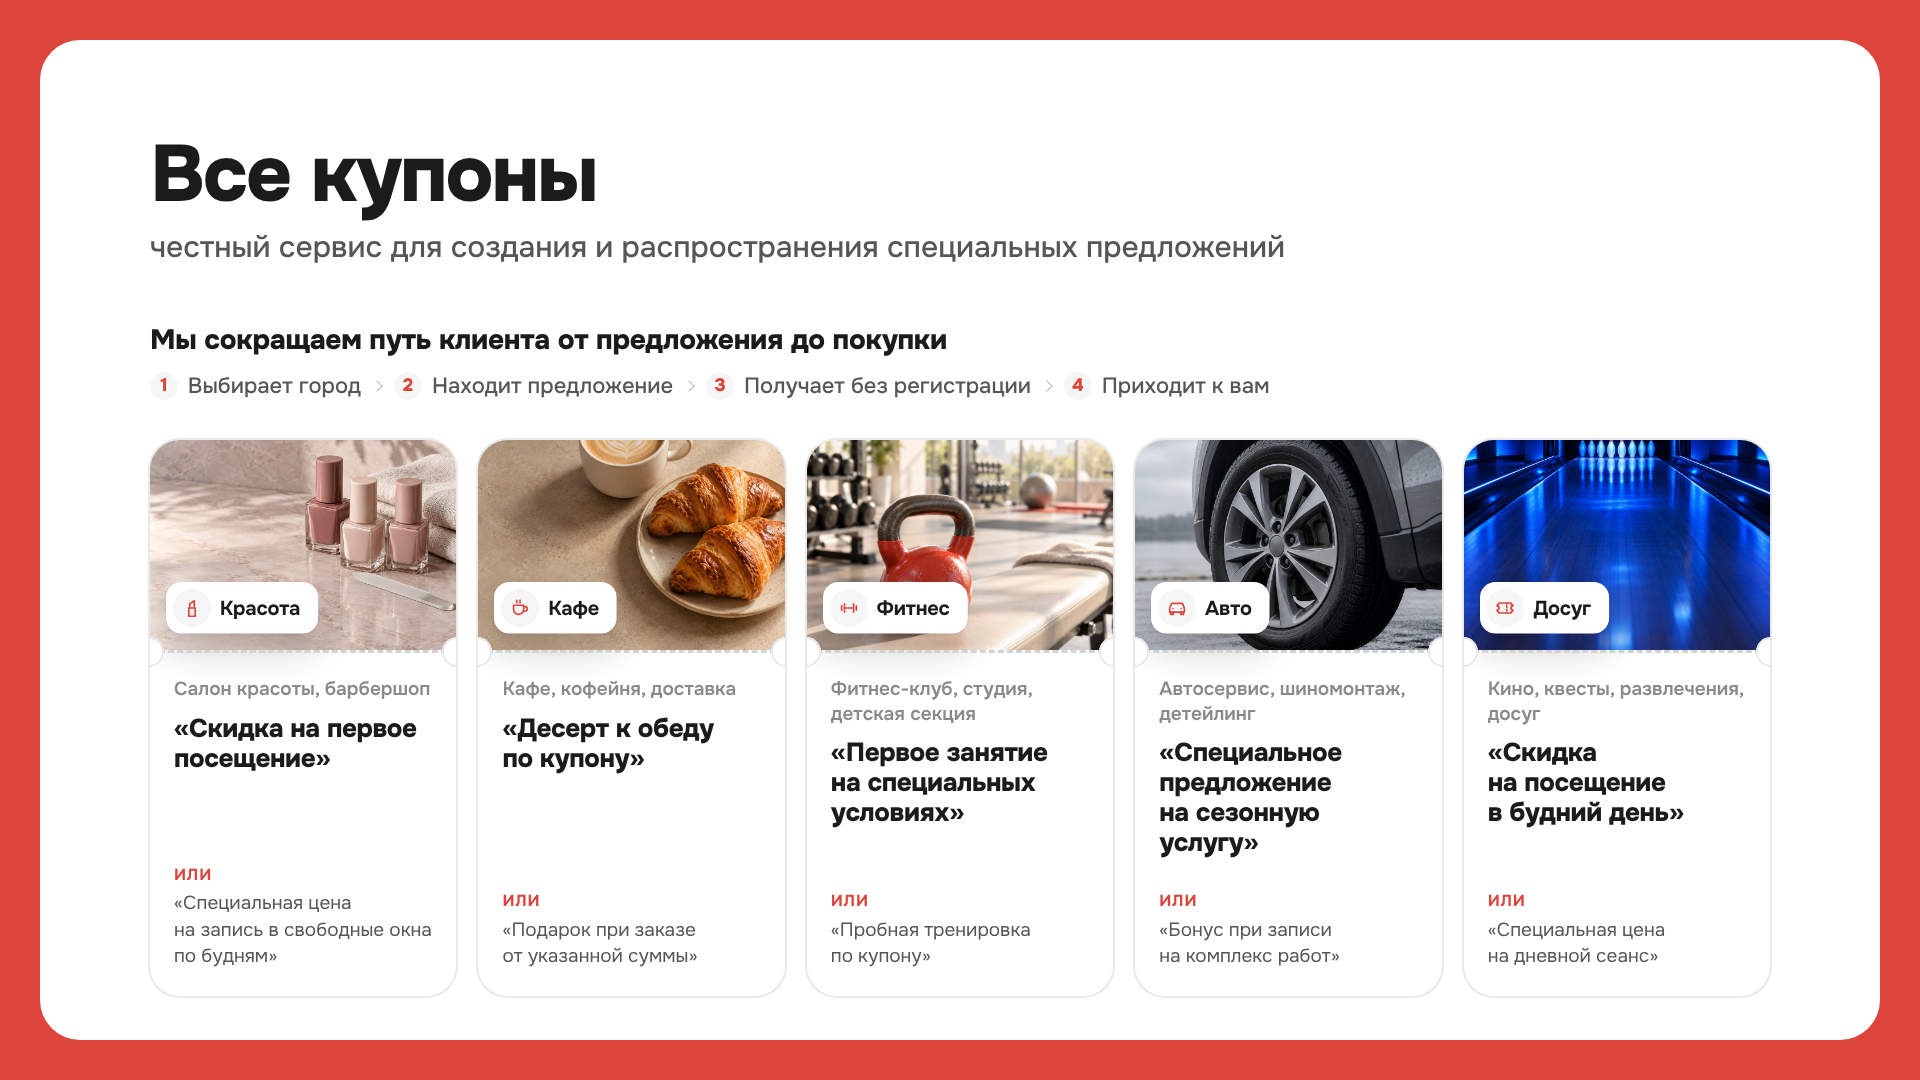
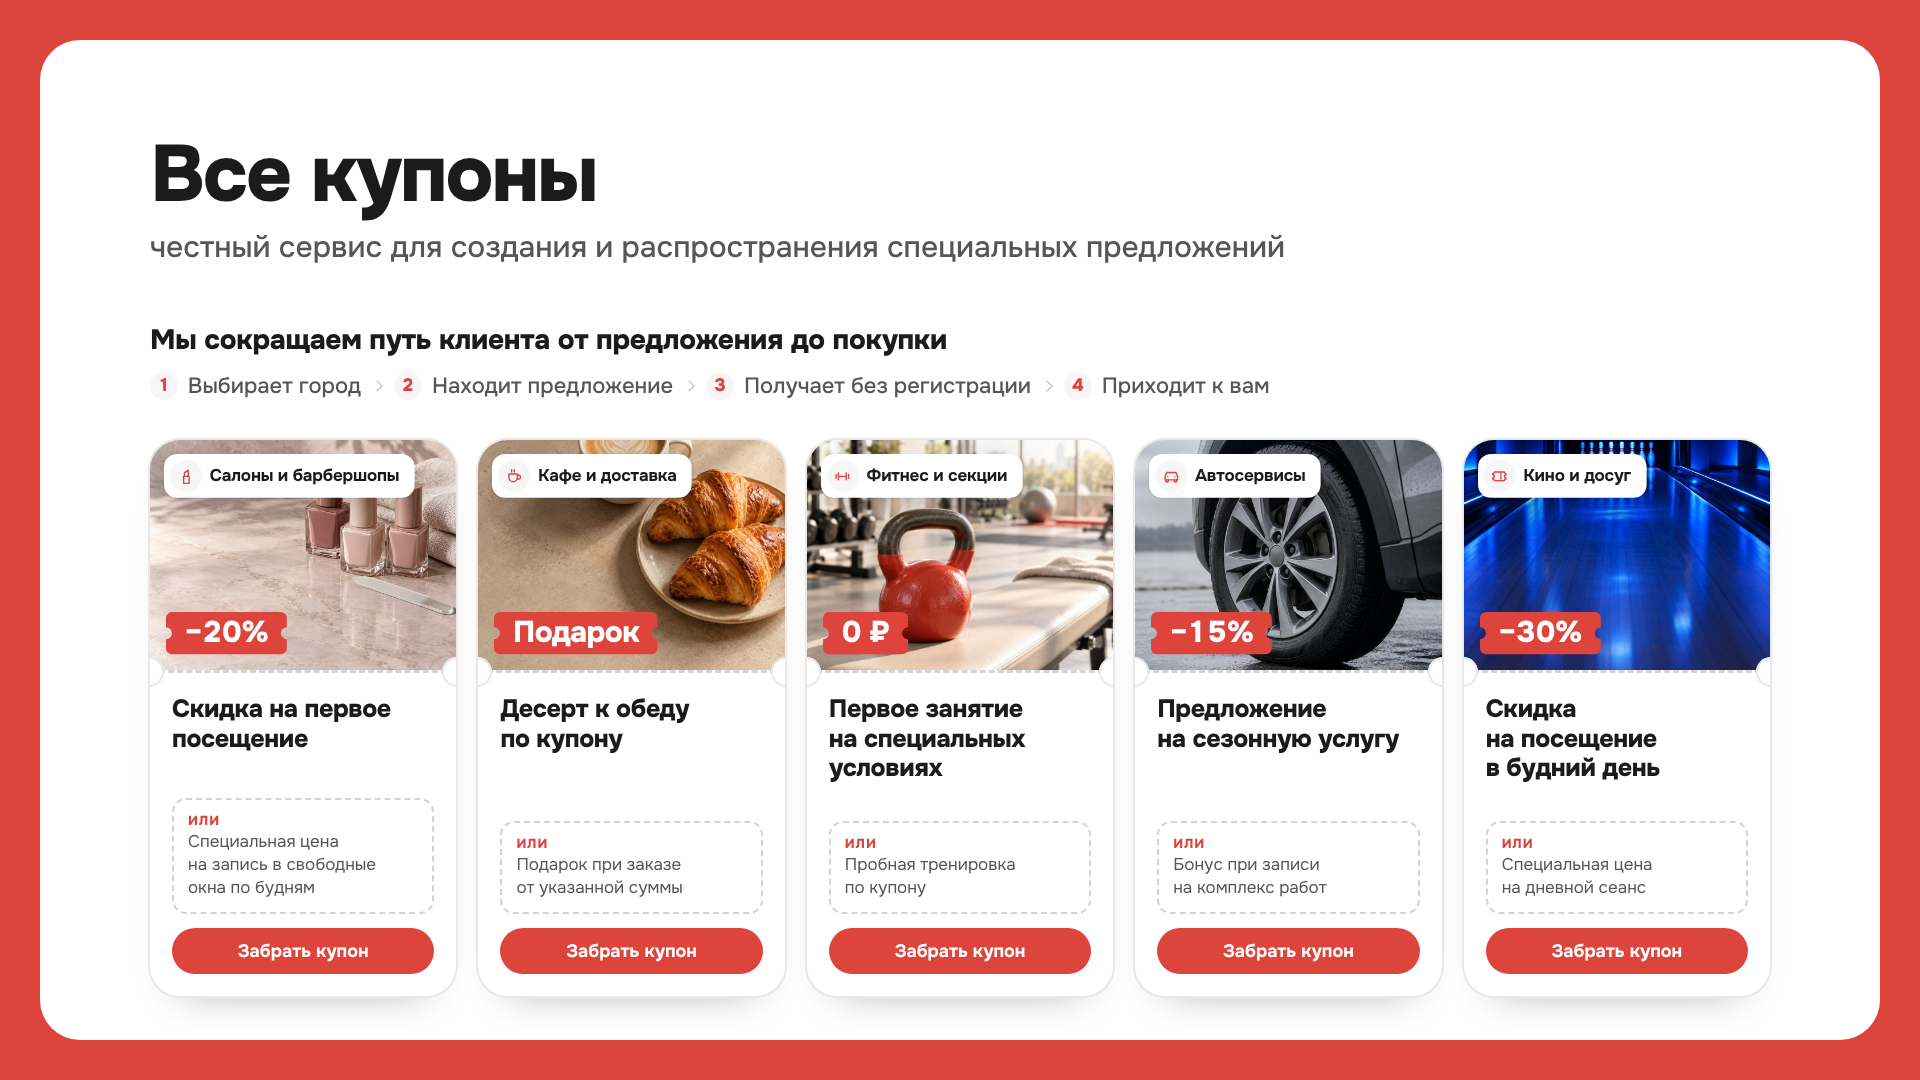
Презентация: купоны ниш как карточки ленты, без дубля ниши
Тип бизнеса — один раз, плашкой на снимке; на снимке билетик выгоды,
ниже предложение, второй вариант в рамке «или» и кнопка «Забрать купон».

Claude-Session: https://claude.ai/code/session_01HQTTQEBkqu3b2tPP56NRpL

Changed region(s): [[0.0625, 0.3972, 0.9375, 0.9472]]

diff --git a/social-kit/deck.html b/social-kit/deck.html
@@ -219,18 +219,22 @@ a{color:inherit;text-decoration:none}
 .short__k{font-size:28px;font-weight:800;letter-spacing:-.01em}
 .short .steps{font-size:22px}
 .niches{position:absolute;left:150px;right:150px;top:440px;display:flex;gap:22px}
+/* Купон ниши — как карточка ленты: снимок с плашкой бизнеса и билетиком
+   выгоды, линия отрыва, предложение, второй вариант в рамке «или»,
+   кнопка. Величины выгоды — примеры. */
 .nc{flex:1;position:relative;height:556px;border-radius:30px;background:#fff;
-  box-shadow:0 0 0 2px var(--line);overflow:hidden;display:flex;flex-direction:column}
-.nc__ph{position:relative;height:210px;background:var(--surface-2) center / cover no-repeat}
-.nc__ph .stub{position:absolute;left:16px;bottom:16px;font-size:20px}
+  box-shadow:0 0 0 2px var(--line), 0 24px 40px -32px rgba(0,0,0,.4);overflow:hidden;display:flex;flex-direction:column}
+.nc__ph{position:relative;height:230px;flex:none;background:var(--surface-2) center / cover no-repeat}
+.nc__ph .stub{position:absolute;left:14px;top:14px;font-size:17px}
+.nc__ph .tk{position:absolute;left:16px;bottom:16px;font-size:30px}
 .nc__perf{position:relative;height:0;border-top:3px dashed var(--line-strong)}
 .nc__perf i{position:absolute;top:-16px;width:30px;height:30px;border-radius:50%;background:#fff;box-shadow:inset 0 0 0 2px var(--line)}
 .nc__perf i:first-child{left:-16px}.nc__perf i:last-child{right:-16px}
-.nc__b{flex:1;padding:24px 24px 26px;display:flex;flex-direction:column}
-.nc__biz{font-size:19px;font-weight:600;color:var(--ink-3);line-height:1.3}
-.nc__t{margin-top:12px;margin-bottom:18px;font-size:26px;font-weight:800;line-height:1.15;letter-spacing:-.015em}
-.nc__or{margin-top:auto;font-size:19px;line-height:1.4;color:var(--ink-2)}
-.nc__or span{display:block;font-size:16px;font-weight:700;text-transform:uppercase;letter-spacing:.06em;color:var(--brand);margin-bottom:4px}
+.nc__b{flex:1;padding:22px 22px 22px;display:flex;flex-direction:column}
+.nc__t{font-size:25px;font-weight:800;line-height:1.18;letter-spacing:-.015em}
+.nc__or{margin-top:auto;padding:12px 14px;border-radius:14px;border:2px dashed var(--line-strong);font-size:17px;line-height:1.35;color:var(--ink-2)}
+.nc__or span{display:block;margin-bottom:2px;font-size:13px;font-weight:800;text-transform:uppercase;letter-spacing:.08em;color:var(--brand)}
+.nc__go{margin-top:14px;height:46px;border-radius:23px;background:var(--brand);color:#fff;display:grid;place-items:center;font-size:18px;font-weight:700}
 
 /* ==========================================================================
    3. Выгоду ищут каждый день — запросы Вордстата
@@ -533,39 +537,39 @@ a{color:inherit;text-decoration:none}
     </div>
     <div class="niches">
       <div class="nc">
-        <div class="nc__ph" style="background-image:url('../assets/coupons/manikyur-rose.jpg');background-position:50% 20%"><span class="stub stub--solo" data-stub="krasota|Красота"></span></div>
+        <div class="nc__ph" style="background-image:url('../assets/coupons/manikyur-rose.jpg');background-position:50% 20%"><span data-stub="krasota|Салоны и барбершопы"></span><span class="tk">−20%</span></div>
         <div class="nc__perf"><i></i><i></i></div>
-        <div class="nc__b"><div class="nc__biz">Салон красоты, барбершоп</div>
-          <div class="nc__t">«Скидка на&nbsp;первое посещение»</div>
-          <div class="nc__or"><span>или</span>«Специальная цена на&nbsp;запись в&nbsp;свободные окна по&nbsp;будням»</div></div>
+        <div class="nc__b"><div class="nc__t">Скидка на&nbsp;первое посещение</div>
+          <div class="nc__or"><span>или</span>Специальная цена на&nbsp;запись в&nbsp;свободные окна по&nbsp;будням</div>
+          <div class="nc__go">Забрать купон</div></div>
       </div>
       <div class="nc">
-        <div class="nc__ph" style="background-image:url('../assets/coupons/kofe-warm.jpg');background-position:50% 30%"><span class="stub stub--solo" data-stub="eda|Кафе"></span></div>
+        <div class="nc__ph" style="background-image:url('../assets/coupons/kofe-warm.jpg');background-position:50% 30%"><span data-stub="eda|Кафе и доставка"></span><span class="tk">Подарок</span></div>
         <div class="nc__perf"><i></i><i></i></div>
-        <div class="nc__b"><div class="nc__biz">Кафе, кофейня, доставка</div>
-          <div class="nc__t">«Десерт к&nbsp;обеду по&nbsp;купону»</div>
-          <div class="nc__or"><span>или</span>«Подарок при заказе от&nbsp;указанной суммы»</div></div>
+        <div class="nc__b"><div class="nc__t">Десерт к&nbsp;обеду по&nbsp;купону</div>
+          <div class="nc__or"><span>или</span>Подарок при заказе от&nbsp;указанной суммы</div>
+          <div class="nc__go">Забрать купон</div></div>
       </div>
       <div class="nc">
-        <div class="nc__ph" style="background-image:url('../assets/coupons/fitness.jpg');background-position:40% 70%"><span class="stub stub--solo" data-stub="sport|Фитнес"></span></div>
+        <div class="nc__ph" style="background-image:url('../assets/coupons/fitness.jpg');background-position:40% 70%"><span data-stub="sport|Фитнес и секции"></span><span class="tk">0&nbsp;₽</span></div>
         <div class="nc__perf"><i></i><i></i></div>
-        <div class="nc__b"><div class="nc__biz">Фитнес-клуб, студия, детская секция</div>
-          <div class="nc__t">«Первое занятие на&nbsp;специальных условиях»</div>
-          <div class="nc__or"><span>или</span>«Пробная тренировка по&nbsp;купону»</div></div>
+        <div class="nc__b"><div class="nc__t">Первое занятие на&nbsp;специальных условиях</div>
+          <div class="nc__or"><span>или</span>Пробная тренировка по&nbsp;купону</div>
+          <div class="nc__go">Забрать купон</div></div>
       </div>
       <div class="nc">
-        <div class="nc__ph" style="background-image:url('../assets/coupons/avto-steel.jpg');background-position:50% 50%"><span class="stub stub--solo" data-stub="avto|Авто"></span></div>
+        <div class="nc__ph" style="background-image:url('../assets/coupons/avto-steel.jpg');background-position:50% 50%"><span data-stub="avto|Автосервисы"></span><span class="tk">−15%</span></div>
         <div class="nc__perf"><i></i><i></i></div>
-        <div class="nc__b"><div class="nc__biz">Автосервис, шиномонтаж, детейлинг</div>
-          <div class="nc__t">«Специальное предложение на&nbsp;сезонную услугу»</div>
-          <div class="nc__or"><span>или</span>«Бонус при записи на&nbsp;комплекс работ»</div></div>
+        <div class="nc__b"><div class="nc__t">Предложение на&nbsp;сезонную услугу</div>
+          <div class="nc__or"><span>или</span>Бонус при записи на&nbsp;комплекс работ</div>
+          <div class="nc__go">Забрать купон</div></div>
       </div>
       <div class="nc">
-        <div class="nc__ph" style="background-image:url('../assets/coupons/razvlecheniya-blue.jpg');background-position:50% 50%"><span class="stub stub--solo" data-stub="ticket|Досуг"></span></div>
+        <div class="nc__ph" style="background-image:url('../assets/coupons/razvlecheniya-blue.jpg');background-position:50% 50%"><span data-stub="ticket|Кино и досуг"></span><span class="tk">−30%</span></div>
         <div class="nc__perf"><i></i><i></i></div>
-        <div class="nc__b"><div class="nc__biz">Кино, квесты, развлечения, досуг</div>
-          <div class="nc__t">«Скидка на&nbsp;посещение в&nbsp;будний день»</div>
-          <div class="nc__or"><span>или</span>«Специальная цена на&nbsp;дневной сеанс»</div></div>
+        <div class="nc__b"><div class="nc__t">Скидка на&nbsp;посещение в&nbsp;будний день</div>
+          <div class="nc__or"><span>или</span>Специальная цена на&nbsp;дневной сеанс</div>
+          <div class="nc__go">Забрать купон</div></div>
       </div>
     </div>
   </section>
